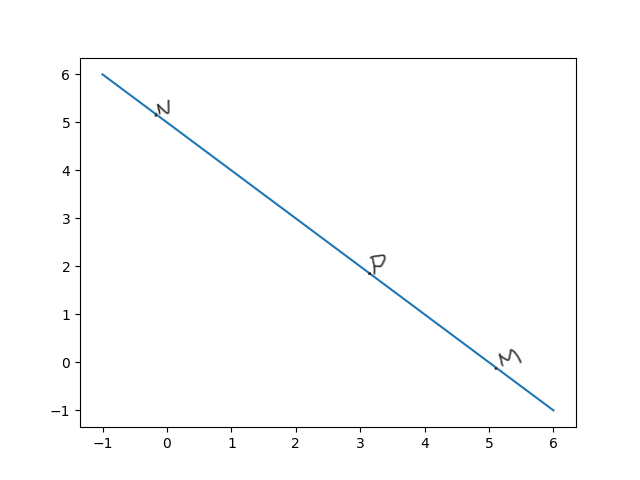
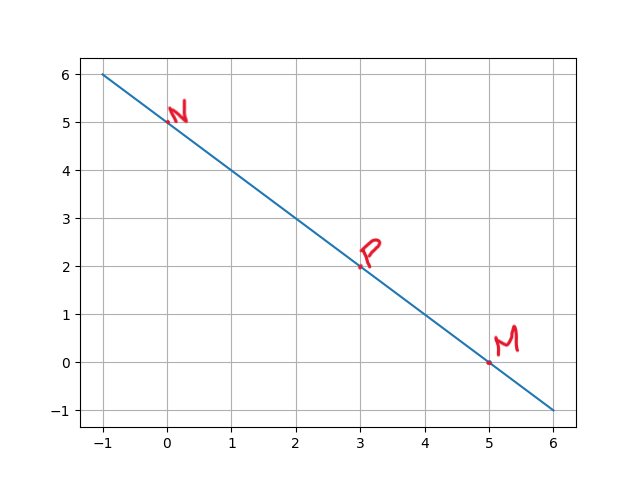
Add files via upload

diff --git a/code/plotting.py b/code/plotting.py
@@ -5,4 +5,5 @@ def f(x):
 xlist=np.linspace(-1,6,1000)
 ylist=f(xlist)
 plt.plot(xlist,ylist)
+plt.grid(b=True,axis="both")
 plt.show()
